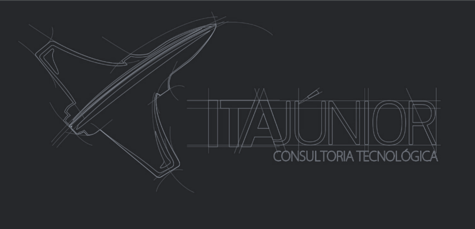
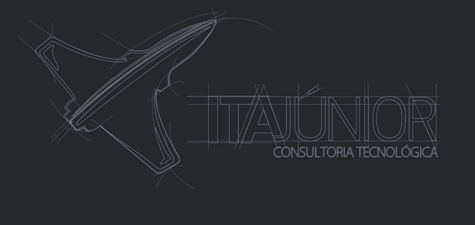
new - frontend

diff --git a/servicos.html b/servicos.html
@@ -58,7 +58,8 @@
 	                </button>
 	               	<a class="navbar-brand" href="index">
 	                    <a href="#"><h1 class="LogoMenu">ITA Júnior</h1></a>
-	                    <!-- falta icone para versão mobile -->
+	                <a class="navbar-brand displayDesktop" href="index"><img src="LogoITAJunior.png" width="27px" height="27px"></a>
+	                <a class="navbar-brand displayMobile" href="index"><img src="IconeAviao.png" width="27px" height="27px"></a>
 	                </a>
 	            </div> 
 
@@ -89,7 +90,7 @@
 							<h1>serviços</h1>
 						</div>
 
-						<p class="TextoAux TextoAuxCursive Azul TextoMargem TextoBold">Alguma frase de impacto que fale sobre os serviços em geral.</p>
+						<p class="TextoAux TextoAuxCursive Branco TextoMargem TextoBold">Alguma frase de impacto que fale sobre os serviços em geral.</p>
 
 						<p class="TextoAux Branco TextoMargem">Nos dias de hoje, as pessoas passam grande parte do tempo navegando e buscando informações na internet. É essencial para uma empresa utilizar esse meio para se aproximar de seu público e alcançar mais clientes.</p>
 

diff --git a/tiej.html b/tiej.html
@@ -58,7 +58,8 @@
 	                </button>
 	               	<a class="navbar-brand" href="index">
 	                    <a href="#"><h1 class="LogoMenu">ITA Júnior</h1></a>
-	                    <!-- falta icone para versão mobile -->
+	                <a class="navbar-brand displayDesktop" href="index"><img src="LogoITAJunior.png" width="27px" height="27px"></a>
+	                <a class="navbar-brand displayMobile" href="index"><img src="IconeAviao.png" width="27px" height="27px"></a>
 	                </a>
 	            </div> 
 
@@ -214,7 +215,7 @@
 			<section id="GaleriaTIEJ" class="BackGr">
 				<div class="container">
 					<div class="TituloTexto">
-						<p class="TextoAux TextoAuxCursive Azul TextoMargem TextoBold DireitoCanto">Alguma frase topzera de impacto sobre o tiej ou mej.</p>
+						<p class="TextoAux TextoAuxCursive Azul TextoMargem TextoBold DireitoCanto">Sozinhos vamos mais rápido, juntos vamos mais longe.</p>
 					</div>
 				</div>
 			

diff --git a/css/itajrstyle.css b/css/itajrstyle.css
@@ -139,6 +139,22 @@ main h1 {
 
 
 /* Navbar changes */
+.navbar-brand {
+	margin-top: -33px;
+	margin-left: 5px;
+}
+
+@media screen and (max-width: 1000px) {
+	.displayDesktop {
+		display: none;
+	}
+}
+@media screen and (min-width: 999px) {
+	.displayMobile {
+		display: none;
+	}
+}
+
 .LogoMenu {
 	font-size: 0px;
 	background: url(.../resources/images/LogoITAJunior.png) center center/25px no-repeat; /*dont work*/
@@ -849,6 +865,7 @@ h4 {
 
 #inputState {
 	margin-left: -15px;
+	color: rgb(140, 140, 140);
 }
 
 
@@ -1074,7 +1091,8 @@ h4 {
 .ControleLargura {
 	max-width: 500px;
 	text-align: left;
-	margin-left: -35px;
+	margin-top: 15px;
+	margin-left: -15px;
 }
 
 .TopoBaixo {
@@ -1088,8 +1106,14 @@ h4 {
 	z-index: 0;
 	margin-top: 90px;
 	margin-bottom: 30px;
+	margin-left: -130px;
 	/*top: -150px;
 	/*reduzir o tamanho da imagem*/	
+}
+
+.TextodaImagem {
+	display: flex;
+	flex-direction: column;
 }
 
 .posicionarImagemITAJr {

diff --git a/contato.html b/contato.html
@@ -45,7 +45,8 @@
 	                </button>
 	               	<a class="navbar-brand" href="index">
 	                    <a href="#"><h1 class="LogoMenu">ITA Júnior</h1></a>
-	                    <!-- falta icone para versão mobile -->
+	                <a class="navbar-brand displayDesktop" href="index"><img src="LogoITAJunior.png" width="27px" height="27px"></a>
+	                <a class="navbar-brand displayMobile" href="index"><img src="IconeAviao.png" width="27px" height="27px"></a>
 	                </a>
 	            </div> 
 

diff --git a/index.html b/index.html
@@ -58,7 +58,8 @@
 	                </button>
 	               	<a class="navbar-brand" href="index">
 	                    <a href="#"><h1 class="LogoMenu">ITA Júnior</h1></a>
-	                    <!-- falta icone para versão mobile -->
+	                <a class="navbar-brand displayDesktop" href="index"><img src="LogoITAJunior.png" width="27px" height="27px"></a>
+	                <a class="navbar-brand displayMobile" href="index"><img src="IconeAviao.png" width="27px" height="27px"></a>
 	                </a>
 	            </div> 
 

diff --git a/pecaseuprojeto.html b/pecaseuprojeto.html
@@ -45,7 +45,8 @@
 	                </button>
 	               	<a class="navbar-brand" href="index">
 	                    <a href="#"><h1 class="LogoMenu">ITA Júnior</h1></a>
-	                    <!-- falta icone para versão mobile -->
+	                <a class="navbar-brand displayDesktop" href="index"><img src="LogoITAJunior.png" width="27px" height="27px"></a>
+	                <a class="navbar-brand displayMobile" href="index"><img src="IconeAviao.png" width="27px" height="27px"></a>
 	                </a>
 	            </div> 
 

diff --git a/somos.html b/somos.html
@@ -58,7 +58,8 @@
 	                </button>
 	               	<a class="navbar-brand" href="index">
 	                    <a href="#"><h1 class="LogoMenu">ITA Júnior</h1></a>
-	                    <!-- falta icone para versão mobile -->
+	                <a class="navbar-brand displayDesktop" href="index"><img src="LogoITAJunior.png" width="27px" height="27px"></a>
+	                <a class="navbar-brand displayMobile" href="index"><img src="IconeAviao.png" width="27px" height="27px"></a>
 	                </a>
 	            </div> 
 
